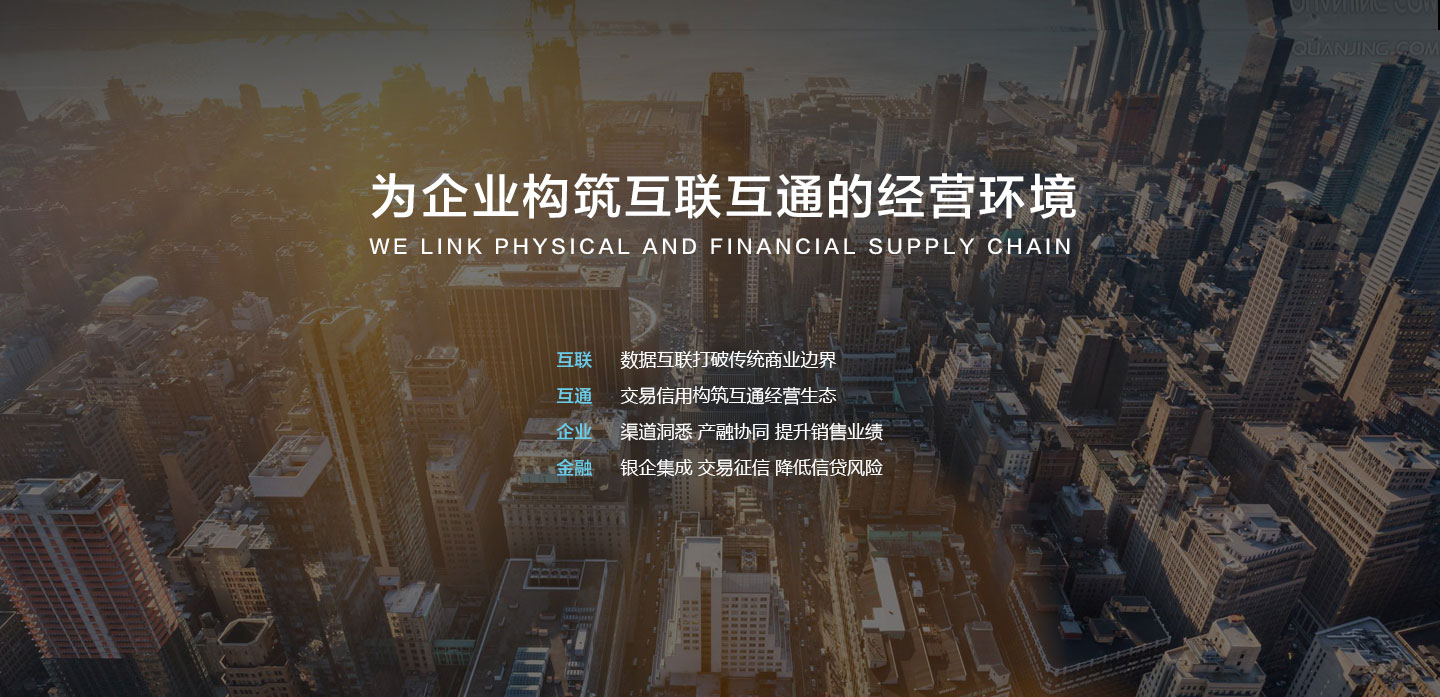
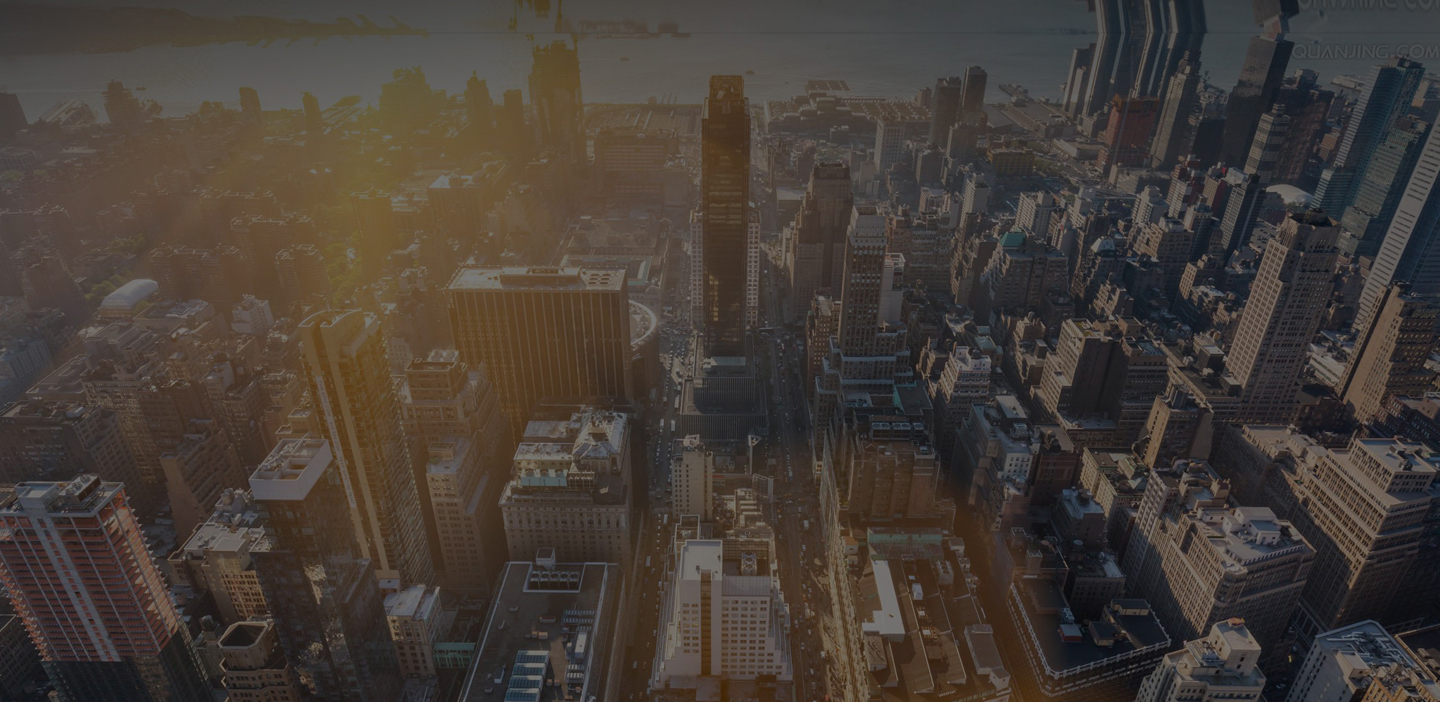
no message

diff --git a/css/less/index.less b/css/less/index.less
@@ -191,6 +191,53 @@
             }
         }
     }
+    .banner01-content{
+        width: 100%;
+//      overflow: hidden;
+        position: absolute;
+        left: 0;
+        top: 26%;
+    }
+    .top-titleh4{        
+        height: 60px;
+        font-size: 42px;
+        color: #fff;
+        text-align: center;
+        letter-spacing:3px;
+        
+    }
+    .top-titleh3{
+        width: 100%;
+        height: 22px;
+        font-size: 20px;
+        color: #fff;
+        text-align: center;
+        word-spacing: 5px;
+        text-transform:Uppercase;
+        letter-spacing:2px;
+        font-weight: normal;
+    }
+    .banner01-content2{
+        width: 330px;
+        position: absolute;
+        left: 50%;
+        top: 49%;
+        margin-left: -165px;
+        .top-titlep{
+            height: 34px;
+            line-height: 34px;
+            text-align: left;
+            color: #fff;
+            font-size: 18px;
+            font-weight: normal;
+            span{
+                font-size: 18px;
+                font-weight: bold;
+                color: #6acce8;
+                margin-right: 28px;
+            }
+        }
+    }
 }
 .index-block2{
     width: 100%;
@@ -401,6 +448,7 @@
         text-align: center;
         font-size: 30px;
         color: #352e2c;
+        font-weight: bold;
         b{
             font-size: 42px;
             font-weight: normal;
@@ -501,7 +549,7 @@
         color: #352e2c;
         b{
             font-size: 42px;
-            font-weight: normal;
+//          font-weight: normal;
         }
         img{
             width: 115px;
@@ -559,11 +607,23 @@
     width: 100%;
     height: 230px;
     border-top: 1px #d6d6d6 solid;
+    position: relative;
     img{
-        width: 821px;
-        height: 151px;
+        width: 854px;
+        height: 161px;
         display: block;
-        margin: 43px auto 0;
+        margin: 36px auto 0;
+        position: relative;
+        z-index: 2;
+    }
+    .index-block6-bg{
+        width: 100%;
+        height: 108px;
+        position: absolute;
+        bottom: 0;
+        left: 0;
+        z-index: 1;
+        background: #f6f6f6;
     }
 }
 .index-block7{
@@ -576,11 +636,11 @@
     width: 1000px;
     overflow: hidden;
     margin: 0 auto;
-    padding-left: 40px;
+//  padding-left: 40px;
     box-sizing: border-box;
     li{
         float: left;
-        width: 167px;
+        width: 170px;
         padding-top:36px;
         h4{
             font-size: 18px;

diff --git a/index.html b/index.html
@@ -137,6 +137,16 @@
 			<div class="swiper-wrapper">
 				<div class="swiper-slide">
 					<img src="img/banner01.jpg" alt="" />
+					<div class="banner01-content">
+						<h4 class="top-titleh4">为企业构筑互联互通的经营环境</h4>
+						<h3 class="top-titleh3">We link physical and financial supply chain</h3>
+					</div>					
+					<div class="banner01-content2">
+						<p class="top-titlep"><span>互联</span>数据互联打破传统商业边界</p>
+						<p class="top-titlep"><span>互通</span>交易信用构筑互通经营生态</p>
+						<p class="top-titlep"><span>企业</span>渠道洞悉 产融协同 提升销售业绩</p>
+						<p class="top-titlep"><span>金融</span>银企集成 交易征信 降低信贷风险</p>
+					</div>
 				</div>
 				<div class="swiper-slide">
 					<img src="img/banner01.jpg" alt="" />
@@ -279,7 +289,8 @@
 		</div>
 	</div>
 	<div class="index-block6">
-		<img src="img/workbank_03.jpg" alt="" />
+		<img src="img/workbank_03.png" alt="" />
+		<div class="index-block6-bg"></div>
 	</div>
 	<div class="index-block7">
 		<ul class="index-block7-ul">
